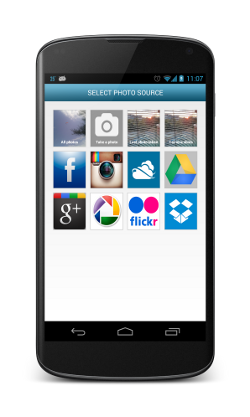
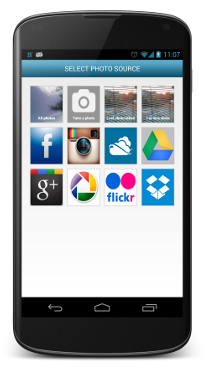
enable unsupported service login, resize screenshots

diff --git a/Android/ChutePhotoPicker+/src/com/chute/android/photopickerplus/config/PhotoPicker.java b/Android/ChutePhotoPicker+/src/com/chute/android/photopickerplus/config/PhotoPicker.java
@@ -99,7 +99,7 @@ public class PhotoPicker {
 
   public void setAvailableRemoteServices(List<AccountType> remoteServices) {
     this.remoteServices = remoteServices;
-    checkIfServiceIsSupported(remoteServices);
+//    checkIfServiceIsSupported(remoteServices);
   }
 
   public void setAvailableLocalServices(List<LocalMediaType> localServices) {
@@ -156,18 +156,18 @@ public class PhotoPicker {
     }
   }
 
-  private void checkIfServiceIsSupported(List<AccountType> remoteServices) {
-    Iterator<AccountType> iterator = remoteServices.iterator();
-    while (iterator.hasNext()) {
-      AccountType accountType = iterator.next();
-      if (accountType.equals(AccountType.CHUTE)
-          || accountType.equals(AccountType.FOURSQUARE)
-          || accountType.equals(AccountType.TWITTER)) {
-        ALog.w(WARNING_UNSUPPORTED_SERVICES);
-        iterator.remove();
-      }
-    }
-  }
+//  private void checkIfServiceIsSupported(List<AccountType> remoteServices) {
+//    Iterator<AccountType> iterator = remoteServices.iterator();
+//    while (iterator.hasNext()) {
+//      AccountType accountType = iterator.next();
+//      if (accountType.equals(AccountType.CHUTE)
+//          || accountType.equals(AccountType.FOURSQUARE)
+//          || accountType.equals(AccountType.TWITTER)) {
+//        ALog.w(WARNING_UNSUPPORTED_SERVICES);
+//        iterator.remove();
+//      }
+//    }
+//  }
 
   public void destroy() {
     if (configuration != null)

diff --git a/Android/PhotoPickerPlusTutorial/src/com/chute/android/photopickerplustutorial/PhotoPickerPlusTutorialApp.java b/Android/PhotoPickerPlusTutorial/src/com/chute/android/photopickerplustutorial/PhotoPickerPlusTutorialApp.java
@@ -27,19 +27,21 @@ public class PhotoPickerPlusTutorialApp extends PhotoPickerPlusApp {
     super.onCreate();
     ALog.setDebugTag("PhotoPicker");
     ALog.setDebugLevel(DebugLevel.ALL);
+    final String APP_ID = "4f3c39ff38ecef0c89000003";
[1 lines of base64/hex data omitted]
     /**
      * Fill in using "app_id" and "app_secret" values from your Chute
      * application. 
      * See <a href="https://apps.getchute.com">https://apps.getchute.com</a>
      */
-    Chute.init(this, new AuthConstants("app_id", "app_secret"));
+    Chute.init(this, new AuthConstants(APP_ID, APP_SECRET));
 
     PhotoPickerConfiguration config = new PhotoPickerConfiguration.Builder(
         getApplicationContext())
         .isMultiPicker(true)
-        .accountList(AccountType.FACEBOOK, AccountType.INSTAGRAM)
+        .accountList(AccountType.FLICKR, AccountType.TWITTER, AccountType.FACEBOOK)
         .localMediaList(LocalMediaType.ALL_PHOTOS, LocalMediaType.CAMERA_PHOTOS)
-        .configUrl(ConfigEndpointURLs.SERVICES_CONFIG_URL)
+//        .configUrl(ConfigEndpointURLs.SERVICES_CONFIG_URL)
         .build();
     PhotoPicker.getInstance().init(config);
 

diff --git a/Android/ChutePhotoPicker+/src/com/chute/android/photopickerplus/ui/adapter/ServicesAdapter.java b/Android/ChutePhotoPicker+/src/com/chute/android/photopickerplus/ui/adapter/ServicesAdapter.java
@@ -261,6 +261,12 @@ public class ServicesAdapter extends BaseAdapter {
           R.drawable.dropbox));
       break;
     default:
+      holder.imageView.setBackgroundDrawable(context.getResources().getDrawable(
+          R.drawable.album_default));
+      holder.textViewServiceTitle.setVisibility(View.VISIBLE);
+      String loginMethod = type.getLoginMethod();
+      String accountTypeName = loginMethod.substring(0,1).toUpperCase() + loginMethod.substring(1);
+      holder.textViewServiceTitle.setText(accountTypeName);
       break;
     }
   }

diff --git a/Android/ChutePhotoPicker+/src/com/chute/android/photopickerplus/ui/fragment/FragmentServices.java b/Android/ChutePhotoPicker+/src/com/chute/android/photopickerplus/ui/fragment/FragmentServices.java
@@ -5,7 +5,6 @@ import java.util.List;
 import android.app.Activity;
 import android.os.Bundle;
 import android.support.v4.app.Fragment;
-import android.util.Log;
 import android.view.LayoutInflater;
 import android.view.View;
 import android.view.ViewGroup;

diff --git a/README.md b/README.md
@@ -14,7 +14,7 @@ PhotoPicker+ is a component that enables browsing albums and choosing photo(s) f
 PhotoPicker+ is available for both Android and iOS. For more information please refer to [Android README.md](/Android/ChutePhotoPicker+/README.md) or [iOS README.md](/iOS/README.md) files.
 
 ![nexus_screenshot1](/Android/ChutePhotoPicker+/screenshots/nexus_screenshot1.png)![nexus_screenshot2](/Android/ChutePhotoPicker+/screenshots/nexus_screenshot2.png)![nexus_screenshot3](/Android/ChutePhotoPicker+/screenshots/nexus_screenshot3.png)  
-![screen1](/iOS/screenshots/screen1.png)![screen3](/iOS/screenshots/screen3.png)![screen5](/iOS/screenshots/screen5.png)
+![screen14](/iOS/screenshots/screen14.png)![screen15](/iOS/screenshots/screen15.png)![screen16](/iOS/screenshots/screen16.png)
 
 
 # Changelog
